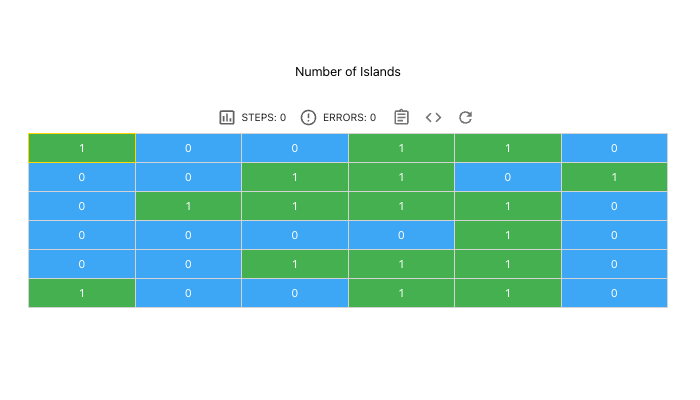
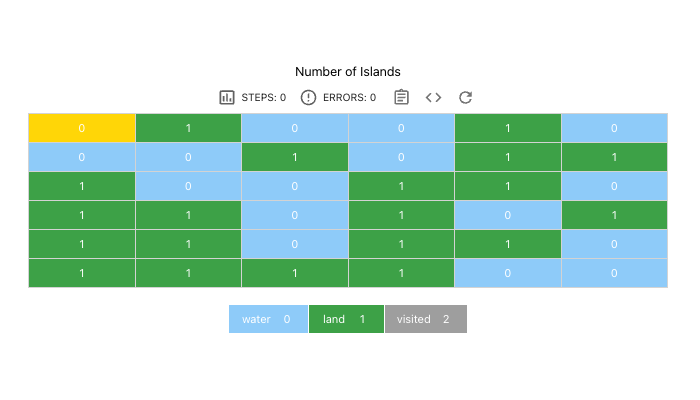
implement nums of islands

diff --git a/src/games/graph/number-of-islands/ActionPanel.tsx b/src/games/graph/number-of-islands/ActionPanel.tsx
@@ -1,10 +1,13 @@
 import React from "react";
-import { IconButton, Table, TableBody, TableCell, TableRow, styled } from "@mui/material"
+import { Button, ButtonGroup, IconButton, Table, TableBody, TableCell, TableRow, styled } from "@mui/material"
 import ArrowCircleRightOutlinedIcon from '@mui/icons-material/ArrowCircleRightOutlined';
 import ArrowCircleDownOutlinedIcon from '@mui/icons-material/ArrowCircleDownOutlined';
 import ArrowCircleLeftOutlinedIcon from '@mui/icons-material/ArrowCircleLeftOutlined';
 import ArrowCircleUpOutlinedIcon from '@mui/icons-material/ArrowCircleUpOutlined';
-import { Step } from "./algo";
+import UndoOutlinedIcon from '@mui/icons-material/UndoOutlined';
+import SouthOutlinedIcon from '@mui/icons-material/SouthOutlined';
+import RedoOutlinedIcon from '@mui/icons-material/RedoOutlined';
+import { Direction, Step } from "./algo";
 
 const Position = styled("div")({
     position: "fixed",
@@ -16,70 +19,113 @@ const Position = styled("div")({
 interface Props {
     steps: Step[];
     index: number;
+    success: boolean;
     setIndex: React.Dispatch<React.SetStateAction<number>>;
     setStepsCount: React.Dispatch<React.SetStateAction<number>>;
     setErrorsCount: React.Dispatch<React.SetStateAction<number>>;
     setSuccess: React.Dispatch<React.SetStateAction<boolean>>
 }
 
-const Main = ({ steps, index, setStepsCount, setErrorsCount, setSuccess, setIndex }: Props) => {
+const Main = ({ steps, index, success, setStepsCount, setErrorsCount, setSuccess, setIndex }: Props) => {
     const step = steps[index];
+    const disabled: boolean = success;
 
-    const disabled: boolean = step === undefined;
+    const increaseIndex = React.useCallback((dir: Direction) => {
+        if (!step) {
+            return;
+        }
 
-    const handleLeftClick = () => {
+        const { direction } = step;
+        if (direction === undefined || direction === dir) {
+            if (index === steps.length - 1) {
+                setSuccess(true);
+            } else {
+                setIndex(i => i + 1);
+            }
+        } else {
+            setErrorsCount(count => count + 1);
+        }
         setStepsCount(count => count + 1);
-        console.log("left");
-    }
+    }, [steps, index, setStepsCount, setErrorsCount, setSuccess, setIndex, step]);
 
-    const handleRightClick = () => {
-        setStepsCount(count => count + 1);
-        console.log("right");
-    }
+    const action = React.useCallback((event: KeyboardEvent) => {
+        switch (event.key) {
+            case "ArrowUp": return increaseIndex(Direction.Up);
+            case "ArrowRight": return increaseIndex(Direction.Right);
+            case "ArrowDown": return increaseIndex(Direction.Down);
+            case "ArrowLeft": return increaseIndex(Direction.Left);
+        }
+    }, [increaseIndex]);
 
-    const handleUpClick = () => {
-        setStepsCount(count => count + 1);
-        console.log("up");
-    }
+    React.useEffect(() => {
+        document.addEventListener('keydown', action);
+        return () => document.removeEventListener("keydown", action);
+    }, [action]);
 
-    const handleDownClick = () => {
-        setStepsCount(count => count + 1);
-        console.log("down");
-    }
+    const handleLeftClick = () => increaseIndex(Direction.Left);
+    const handleRightClick = () => increaseIndex(Direction.Right);
+    const handleUpClick = () => increaseIndex(Direction.Up);
+    const handleDownClick = () => increaseIndex(Direction.Down);
+    const handleStartDFS = () => increaseIndex(Direction.StartDFS);
+    const handleSkipDFS = () => increaseIndex(Direction.SkipDFS);
+    const hanldeRollback = () => increaseIndex(Direction.Rollback);
+
+    const color = "success"
 
     return (
         <Position>
+
+            <ButtonGroup disabled={disabled} color={color} variant="contained">
+                <Button endIcon={<SouthOutlinedIcon />} sx={{ textTransform: "none" }} onClick={handleStartDFS}>
+                    DFS
+                </Button>
+                <Button endIcon={<RedoOutlinedIcon />} sx={{ textTransform: "none" }} onClick={handleSkipDFS}>
+                    Next
+                </Button>
+            </ButtonGroup>
+
             <Table>
                 <TableBody>
                     <TableRow>
-                        <TableCell padding="none" sx={{ border: "none" }}></TableCell>
+                        <TableCell padding="none" sx={{ border: "none" }} />
                         <TableCell padding="none" sx={{ border: "none" }}>
-                            <IconButton onClick={handleUpClick} color="info" disabled={disabled}>
+                            <IconButton onClick={handleUpClick} color={color} disabled={disabled}>
                                 <ArrowCircleUpOutlinedIcon fontSize="large" />
                             </IconButton>
                         </TableCell>
-                        <TableCell padding="none" sx={{ border: "none" }}></TableCell>
+                        <TableCell padding="none" sx={{ border: "none" }} />
                     </TableRow>
+
                     <TableRow>
                         <TableCell padding="none" sx={{ border: "none" }}>
-                            <IconButton onClick={handleLeftClick} color="info" disabled={disabled}>
+                            <IconButton onClick={handleLeftClick} color={color} disabled={disabled}>
                                 <ArrowCircleLeftOutlinedIcon fontSize="large" />
                             </IconButton>
                         </TableCell>
                         <TableCell padding="none" sx={{ border: "none" }}>
-                            <IconButton onClick={handleDownClick} color="info" disabled={disabled}>
-                                <ArrowCircleDownOutlinedIcon fontSize="large" />
+                            <IconButton onClick={hanldeRollback} color={color} disabled={disabled}>
+                                <UndoOutlinedIcon fontSize="large" />
                             </IconButton>
                         </TableCell>
                         <TableCell padding="none" sx={{ border: "none" }}>
-                            <IconButton onClick={handleRightClick} color="info" disabled={disabled} >
+                            <IconButton onClick={handleRightClick} color={color} disabled={disabled} >
                                 <ArrowCircleRightOutlinedIcon fontSize="large" />
                             </IconButton>
                         </TableCell>
                     </TableRow>
+
+                    <TableRow>
+                        <TableCell padding="none" sx={{ border: "none" }} />
+                        <TableCell padding="none" sx={{ border: "none" }}>
+                            <IconButton onClick={handleDownClick} color={color} disabled={disabled}>
+                                <ArrowCircleDownOutlinedIcon fontSize="large" />
+                            </IconButton>
+                        </TableCell>
+                        <TableCell padding="none" sx={{ border: "none" }} />
+                    </TableRow>
                 </TableBody>
             </Table>
-        </Position>
+        </Position >
     );
 }
 

diff --git a/src/games/graph/number-of-islands/index.tsx b/src/games/graph/number-of-islands/index.tsx
@@ -14,6 +14,7 @@ import { CheckCircleOutline } from '@mui/icons-material';
 import { Step, buildGrid, buildSteps } from './algo';
 import Grid from "./Grid";
 import ActionPanel from './ActionPanel';
+import Dashboard from "./Dashboard";
 
 const Main = () => {
 
@@ -23,7 +24,6 @@ const Main = () => {
     const grid = buildGrid(rows, cols);
     const [steps, setSteps] = React.useState<Step[]>(() => buildSteps(grid));
     const [index, setIndex] = React.useState(0);
-
     const [stepsCount, setStepsCount] = React.useState(0);
     const [errorsCount, setErrorsCount] = React.useState(0);
     const [success, setSuccess] = React.useState(false);
@@ -34,6 +34,7 @@ const Main = () => {
         setIndex(0);
         setErrorsCount(0);
         setStepsCount(0);
+        setSuccess(false);
     }
 
     return (
@@ -44,7 +45,7 @@ const Main = () => {
                     <Typography variant='body1' display="inline-flex" sx={{ verticalAlign: 'middle' }}>
                         {success && <CheckCircleOutline sx={{ color: 'green' }} />}{title}
                     </Typography>
-                    <div style={{ marginTop: "25px" }}>
+                    <div style={{ marginTop: "0px" }}>
                         <Steps steps={stepsCount} />
                         <Errors errors={errorsCount} />
                         <Description
@@ -57,19 +58,27 @@ const Main = () => {
                         <Formula title={title} formula={formula} />
                         <Refresh handleRefresh={handleRefresh} />
                     </div>
+
                     <Grid steps={steps} index={index} />
+
+                    <div style={{ marginTop: "20px" }}>
+                        <Dashboard />
+                    </div>
+
                     <ActionPanel
                         steps={steps}
                         index={index}
+                        success={success}
                         setIndex={setIndex}
                         setStepsCount={setStepsCount}
                         setErrorsCount={setErrorsCount}
                         setSuccess={setSuccess}
                     />
+
                 </Centered>
             </ThemeProvider>
         </GameWrapper>
-    )
+    );
 }
 
 export default Main;

diff --git a/src/games/graph/number-of-islands/algo.ts b/src/games/graph/number-of-islands/algo.ts
@@ -16,13 +16,13 @@ export const buildGrid = (rows: number, cols: number): number[][] => {
 const cloneGrid = (grid: number[][]): number[][] => grid.map(row => [...row]);
 
 export enum Direction {
-    Left, Right, Up, Down
+    Up, Right, Down, Left, StartDFS, SkipDFS, Rollback
 }
 
 export interface Step {
     grid: number[][];
     point: Point;
-    direction?: Direction;
+    direction: Direction;
     numIslands: number;
 }
 
@@ -39,7 +39,7 @@ export const buildSteps = (grid: number[][]): Step[] => {
         return row >= 0 && row < grid.length && col >= 0 && col < grid[row].length;
     }
 
-    const dfs = (row: number, col: number, direction?: Direction) => {
+    const dfs = (row: number, col: number, direction: Direction) => {
         if (!inArea(row, col)) {
             return;
         }
@@ -47,21 +47,25 @@ export const buildSteps = (grid: number[][]): Step[] => {
             return
         }
 
+        steps.push({ grid: cloneGrid(grid), point: { row, col }, numIslands, direction });
         grid[row][col] = visited;
-        steps.push({ grid: cloneGrid(grid), direction, point: { row, col }, numIslands });
 
         dfs(row - 1, col, Direction.Up);
         dfs(row, col + 1, Direction.Right);
         dfs(row + 1, col, Direction.Down);
         dfs(row, col - 1, Direction.Left);
+
+        steps.push({ grid: cloneGrid(grid), point: { row, col }, numIslands, direction: Direction.Rollback });
     }
 
     for (let row = 0; row < grid.length; row++) {
         for (let col = 0; col < grid[row].length; col++) {
-            steps.push({ grid: cloneGrid(grid), point: { row, col }, numIslands });
+
             if (grid[row][col] === land) {
                 numIslands += 1;
-                dfs(row, col);
+                dfs(row, col, Direction.StartDFS);
+            } else {
+                steps.push({ grid: cloneGrid(grid), point: { row, col }, numIslands, direction: Direction.SkipDFS });
             }
         }
     }

diff --git a/src/games/graph/number-of-islands/Grid.tsx b/src/games/graph/number-of-islands/Grid.tsx
@@ -6,9 +6,9 @@ import Table from '../../dp/_components/Table';
 import { Step } from './algo';
 import { Point } from '../../commons/point';
 
-const landStyle: React.CSSProperties = { backgroundColor: green[500], color: "#fff", border: "2px solid lightgrey" };
-const waterStyle: React.CSSProperties = { backgroundColor: blue[400], color: "#fff", border: "2px solid lightgrey" };
-const visitedStyle: React.CSSProperties = { backgroundColor: grey[400], color: "#000", border: "2px solid lightgrey" };
+export const landStyle: React.CSSProperties = { backgroundColor: green[600], color: "#fff", border: "2px solid lightgrey" };
+export const waterStyle: React.CSSProperties = { backgroundColor: blue[200], color: "#fff", border: "2px solid lightgrey" };
+export const visitedStyle: React.CSSProperties = { backgroundColor: grey[500], color: "#fff", border: "2px solid lightgrey" };
 
 const getStyle = (value: number): React.CSSProperties => {
     switch (value) {
@@ -29,7 +29,7 @@ const buildStyles = (grid: number[][], point: Point): React.CSSProperties[][] =>
             let style: React.CSSProperties = getStyle(grid[row][col]);
             if (row === x && col === y) {
                 style = { ...style };
-                style.border = "2px solid gold";
+                style.backgroundColor = "gold";
             }
             styles[row].push(style);
         }

diff --git a/src/games/graph/number-of-islands/Dashboard.tsx b/src/games/graph/number-of-islands/Dashboard.tsx
@@ -1,0 +1,31 @@
+import { Table, TableBody, TableCell, TableRow, styled } from "@mui/material";
+import { landStyle, waterStyle, visitedStyle } from "./Grid";
+
+const Position = styled("div")({
+    display: "inline-block"
+});
+
+const cellStyle = { border: "2px solid #fff" };
+const leftStyle = { ...cellStyle, width: "150px", borderRight: "none", textAlign: "center" };
+const rightStyle = { ...cellStyle, width: "10px", borderLeft: "none", textAlign: "left" };
+
+const Main = () => (
+    <Position>
+        <Table>
+            <TableBody>
+                <TableRow>
+                    <TableCell sx={{ ...waterStyle, ...leftStyle }} padding="none">water</TableCell>
+                    <TableCell sx={{ ...waterStyle, ...rightStyle }} padding="none">0</TableCell>
+
+                    <TableCell sx={{ ...landStyle, ...leftStyle }} padding="none">land</TableCell>
+                    <TableCell sx={{ ...landStyle, ...rightStyle }} padding="none">1</TableCell>
+
+                    <TableCell sx={{ ...visitedStyle, ...leftStyle }} padding="none">visited</TableCell>
+                    <TableCell sx={{ ...visitedStyle, ...rightStyle }} padding="none">2</TableCell>
+                </TableRow>
+            </TableBody>
+        </Table>
+    </Position>
+);
+
+export default Main;
